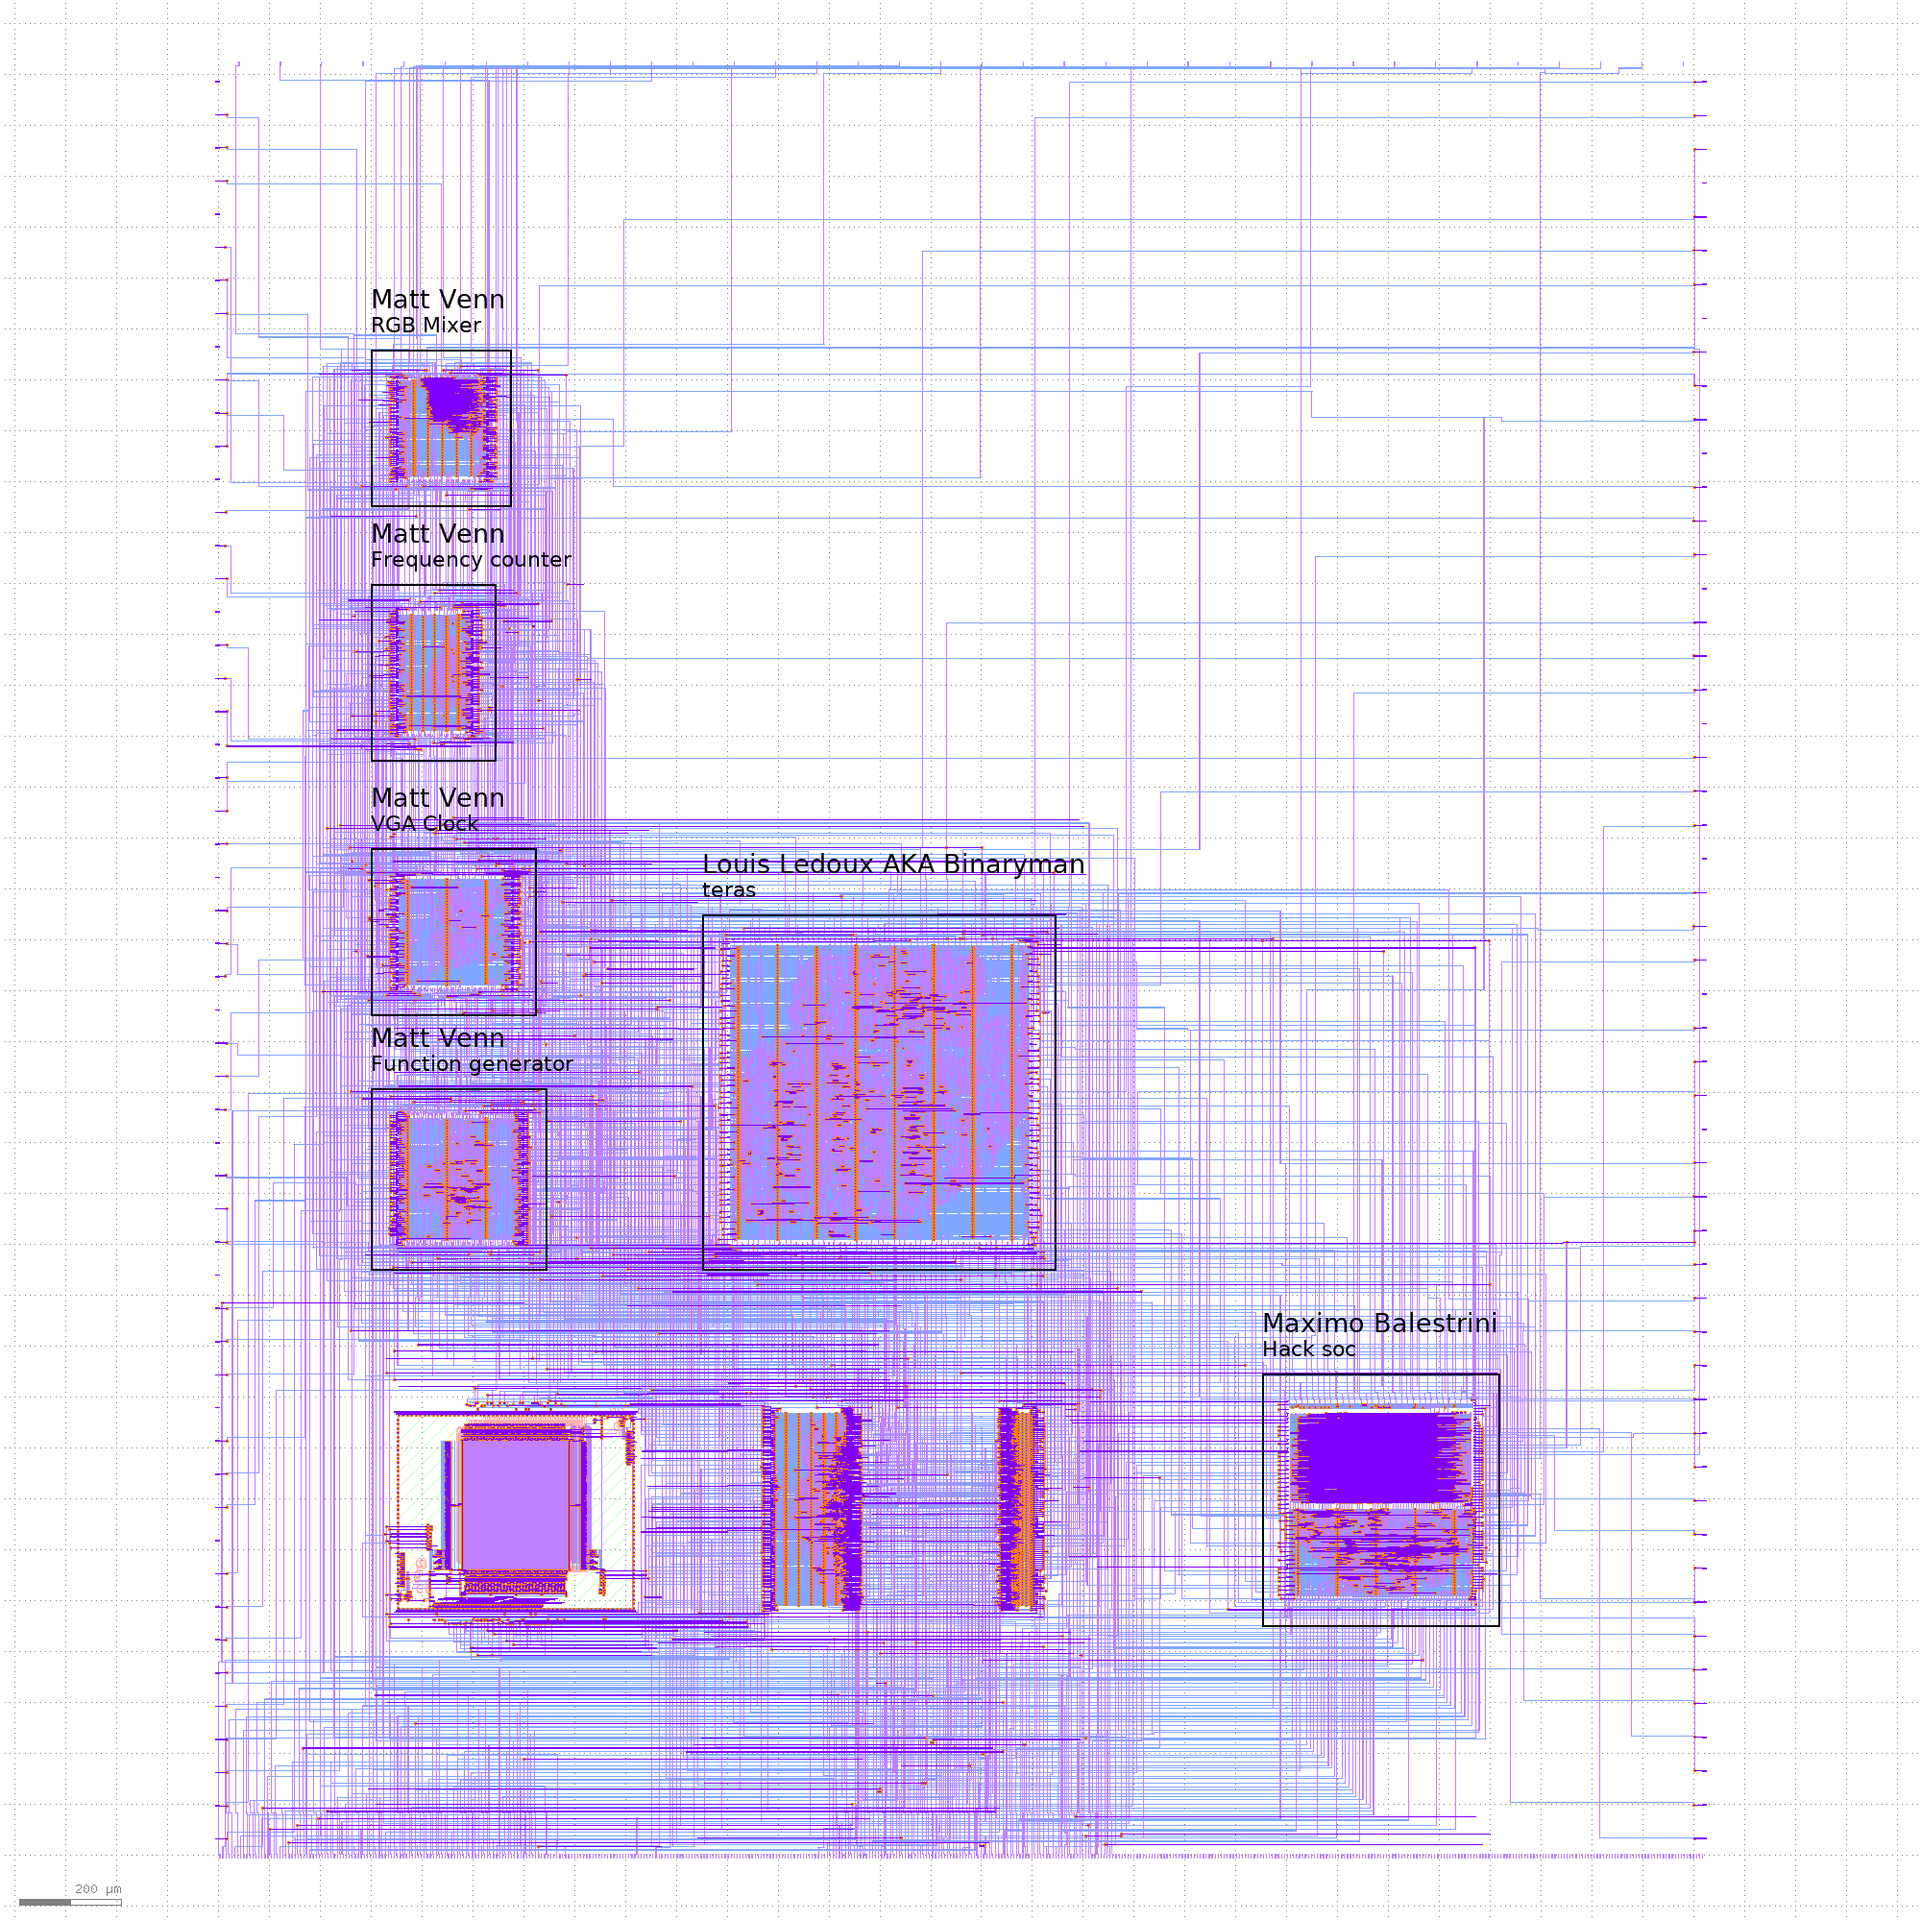
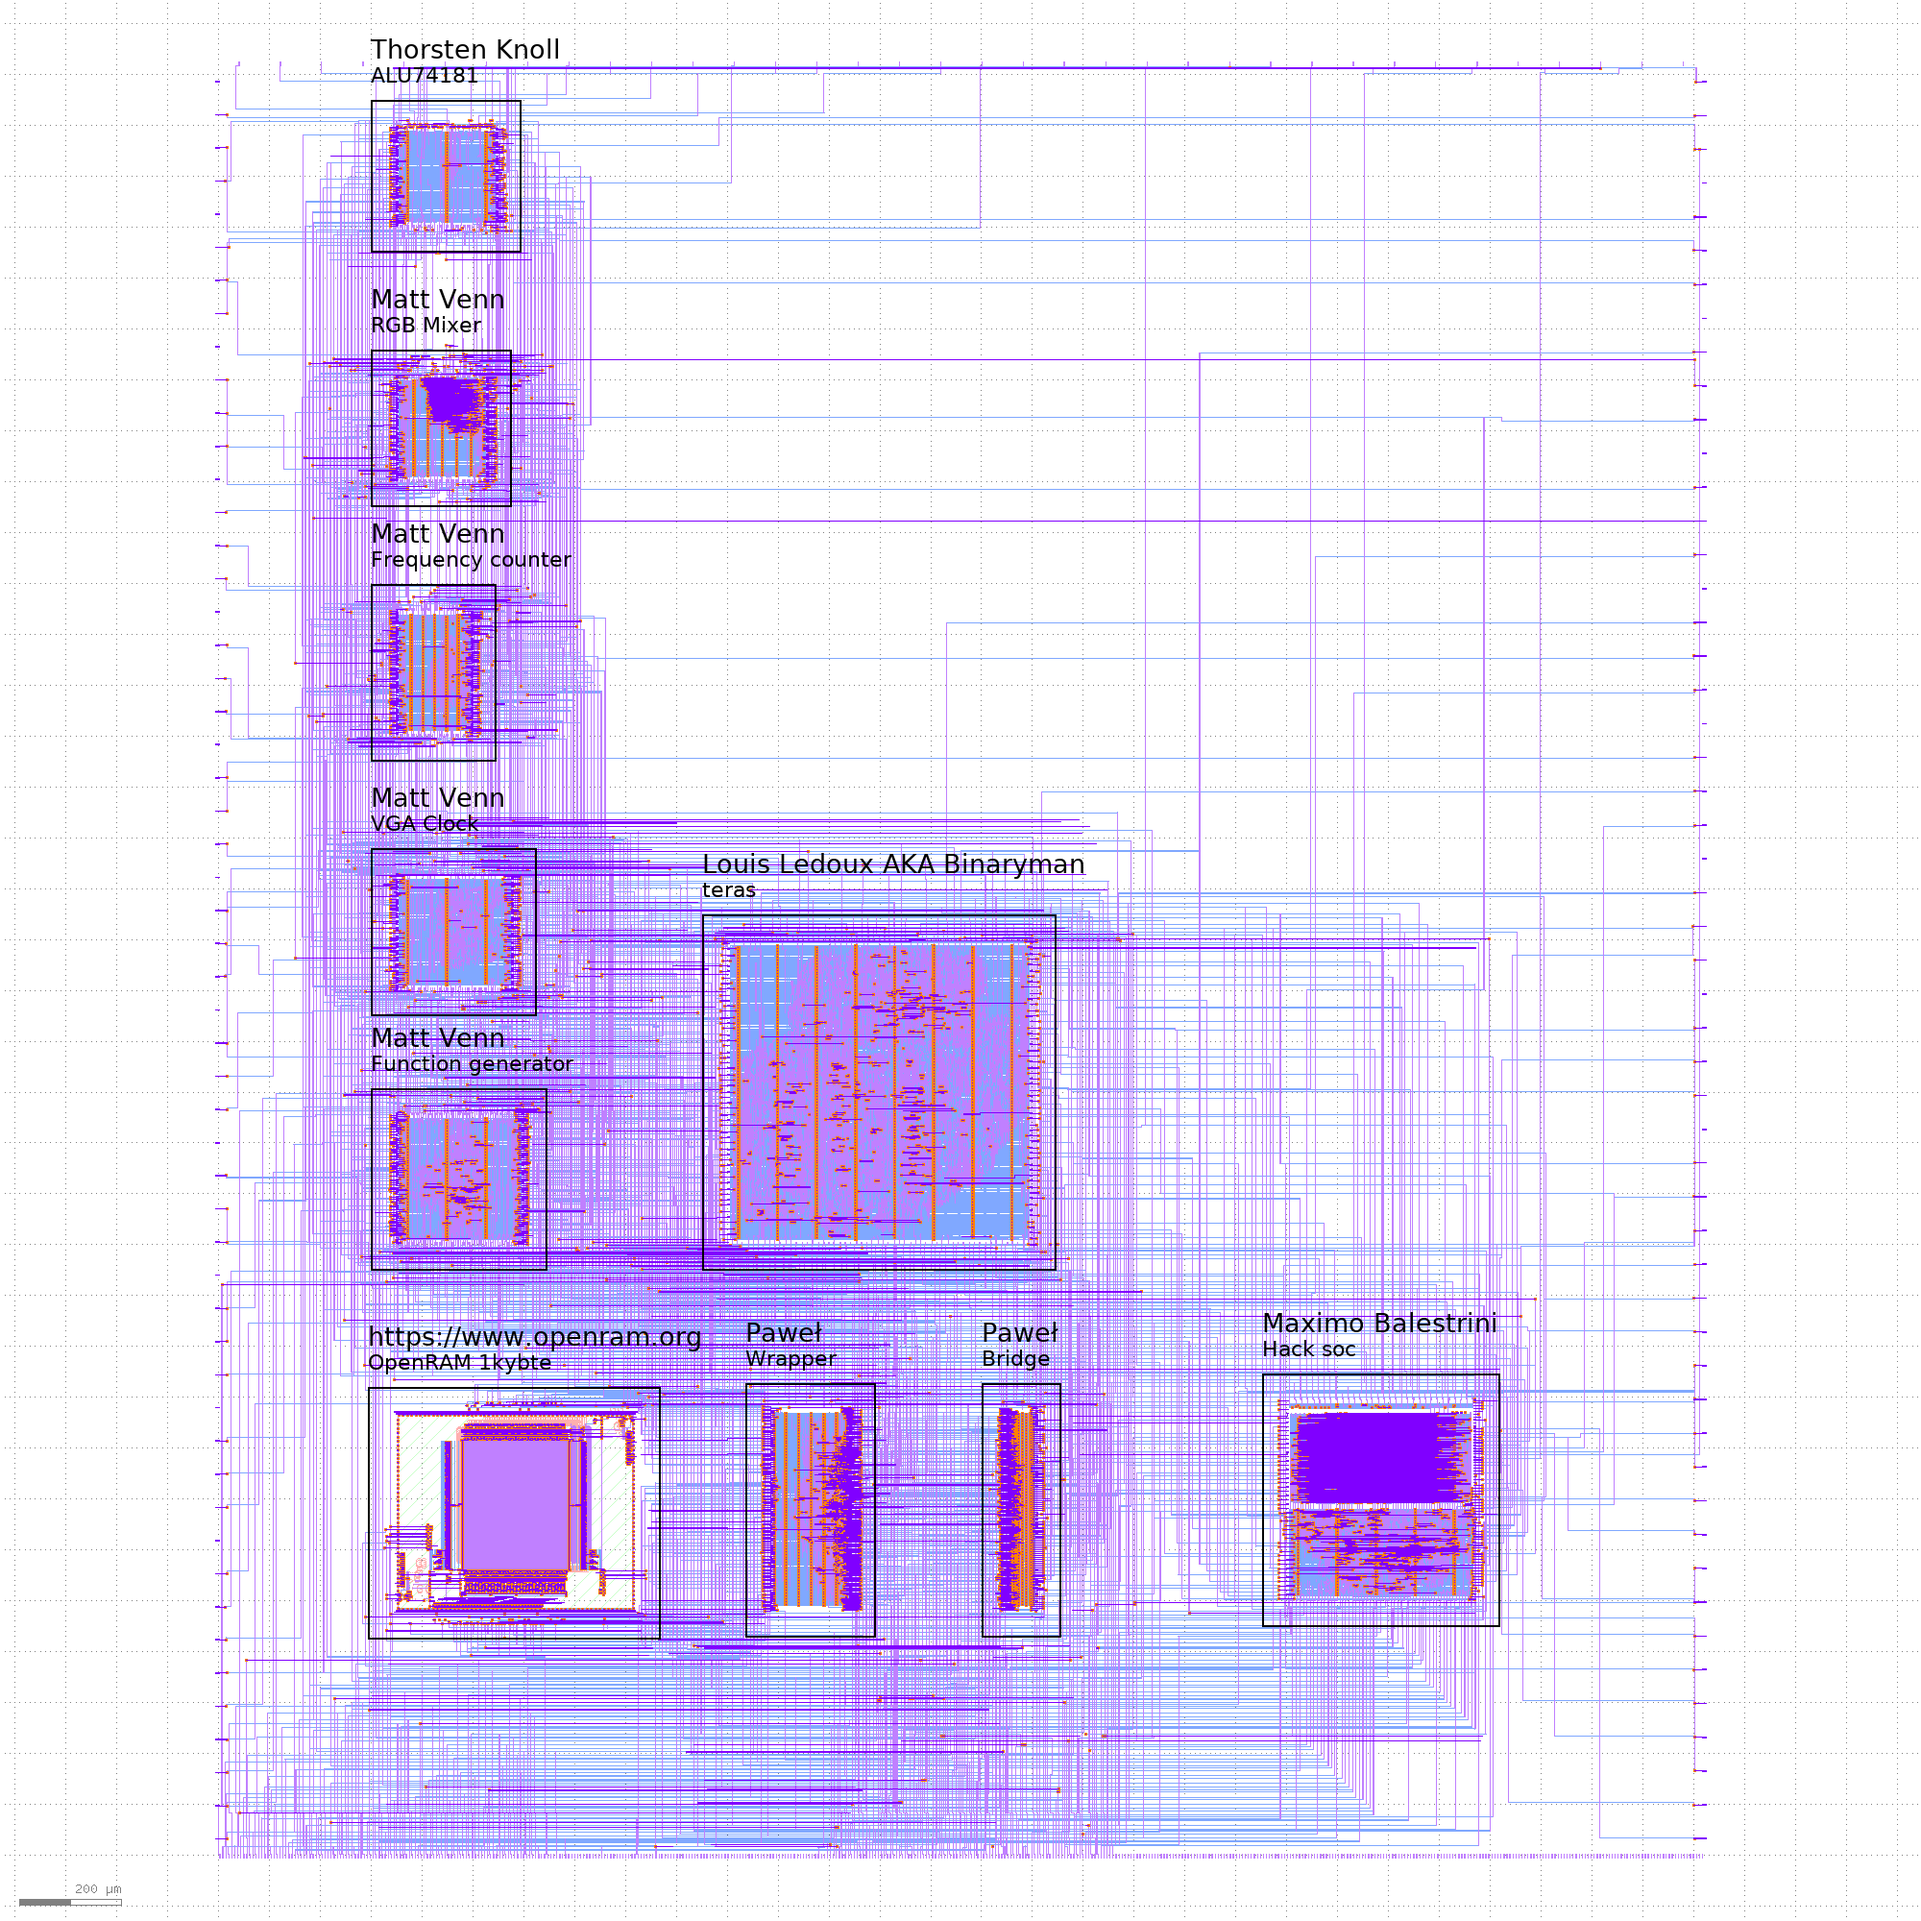
update docs

Changed region(s): [[0.124, 0.0, 0.837, 0.961]]

diff --git a/README.md b/README.md
@@ -3,7 +3,7 @@
 
 This ASIC was designed by members of the [Zero to ASIC course](https://zerotoasiccourse.com).
 
-This submission was configured and built by the [multi project tools](https://github.com/mattvenn/multi_project_tools) at commit [e936b9cae8ef3f98a938902fd391758a5c1a6736](https://github.com/mattvenn/multi_project_tools/commit/e936b9cae8ef3f98a938902fd391758a5c1a6736).
+This submission was configured and built by the [multi project tools](https://github.com/mattvenn/multi_project_tools) at commit [bbf3d4692bc84d2b9d88e73f2f29736400eac86a](https://github.com/mattvenn/multi_project_tools/commit/bbf3d4692bc84d2b9d88e73f2f29736400eac86a).
 
     # clone all repos, and include support for shared OpenRAM
     ./multi_tool.py --clone-repos --clone-shared-repos --create-openlane-config --copy-gds --copy-project --openram
@@ -74,4 +74,13 @@ This submission was configured and built by the [multi project tools](https://gi
 * Description: matrix multiply unit with exact accumulators, no intermediate roundings, fused-dot-products, and posit arithmetic
 
 ![teras](pics/teras_4x3.png)
+
+## ALU74181
+
+* Author: Thorsten Knoll
+* Github: https://github.com/ThorKn/wrapped_alu74181
+* commit: 6a6ed9564ab6007f775002d770115a3e0ea2ea80
+* Description: Rebuild of the 4-bit Arithmetic Logic Unit 74181
+
+![ALU74181](pics/alu74181_gds.png)
 
